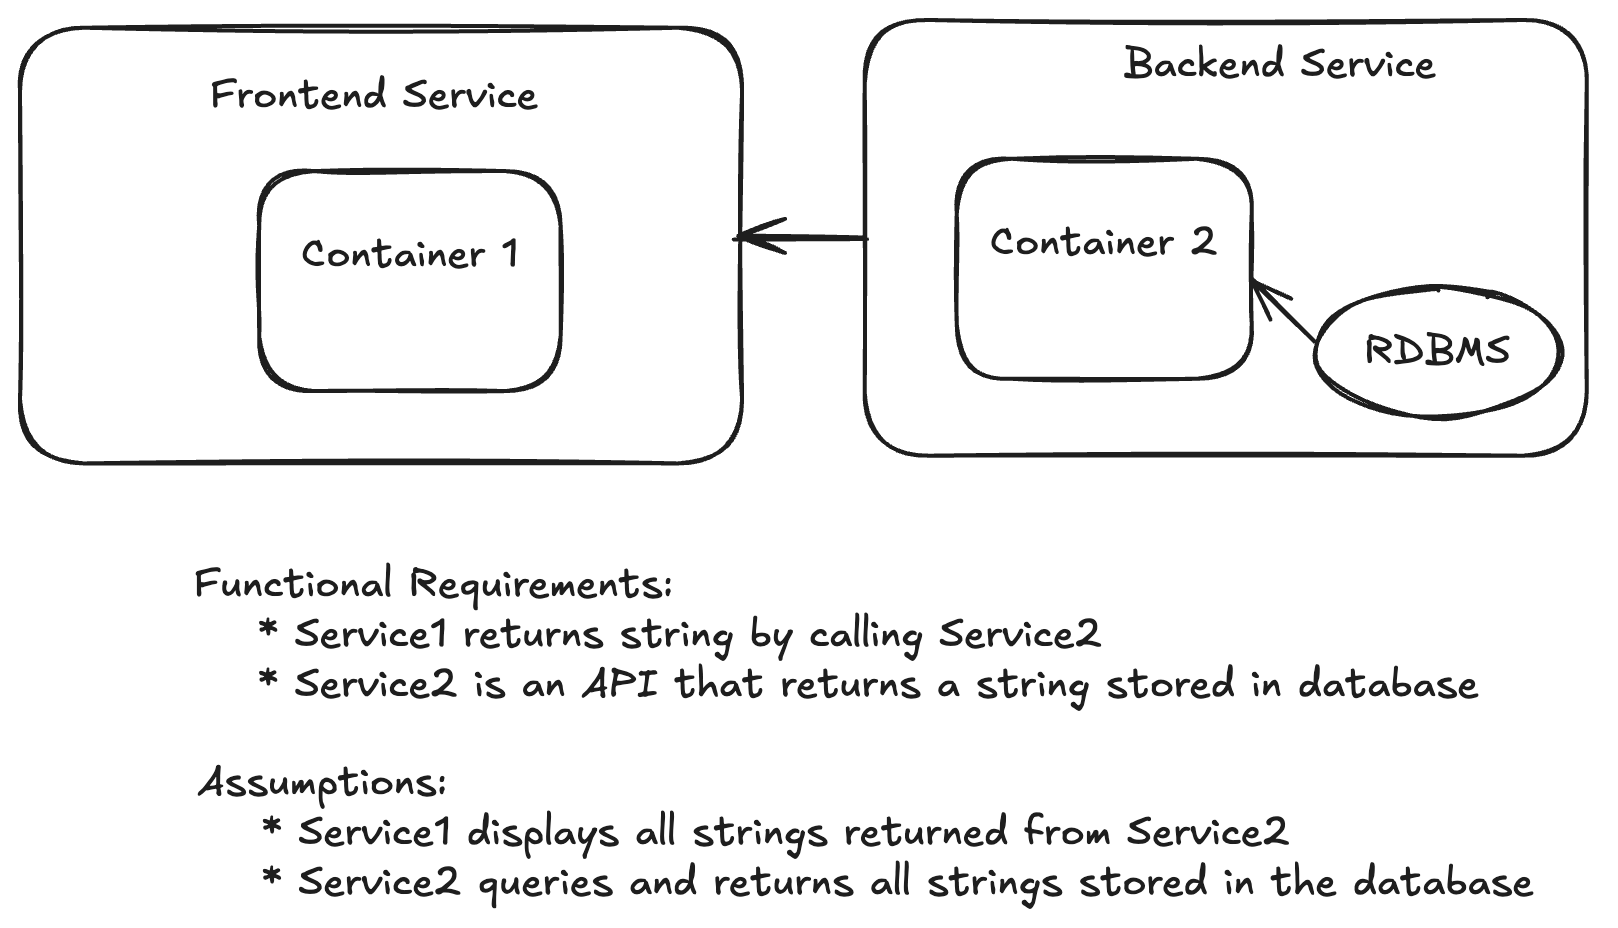
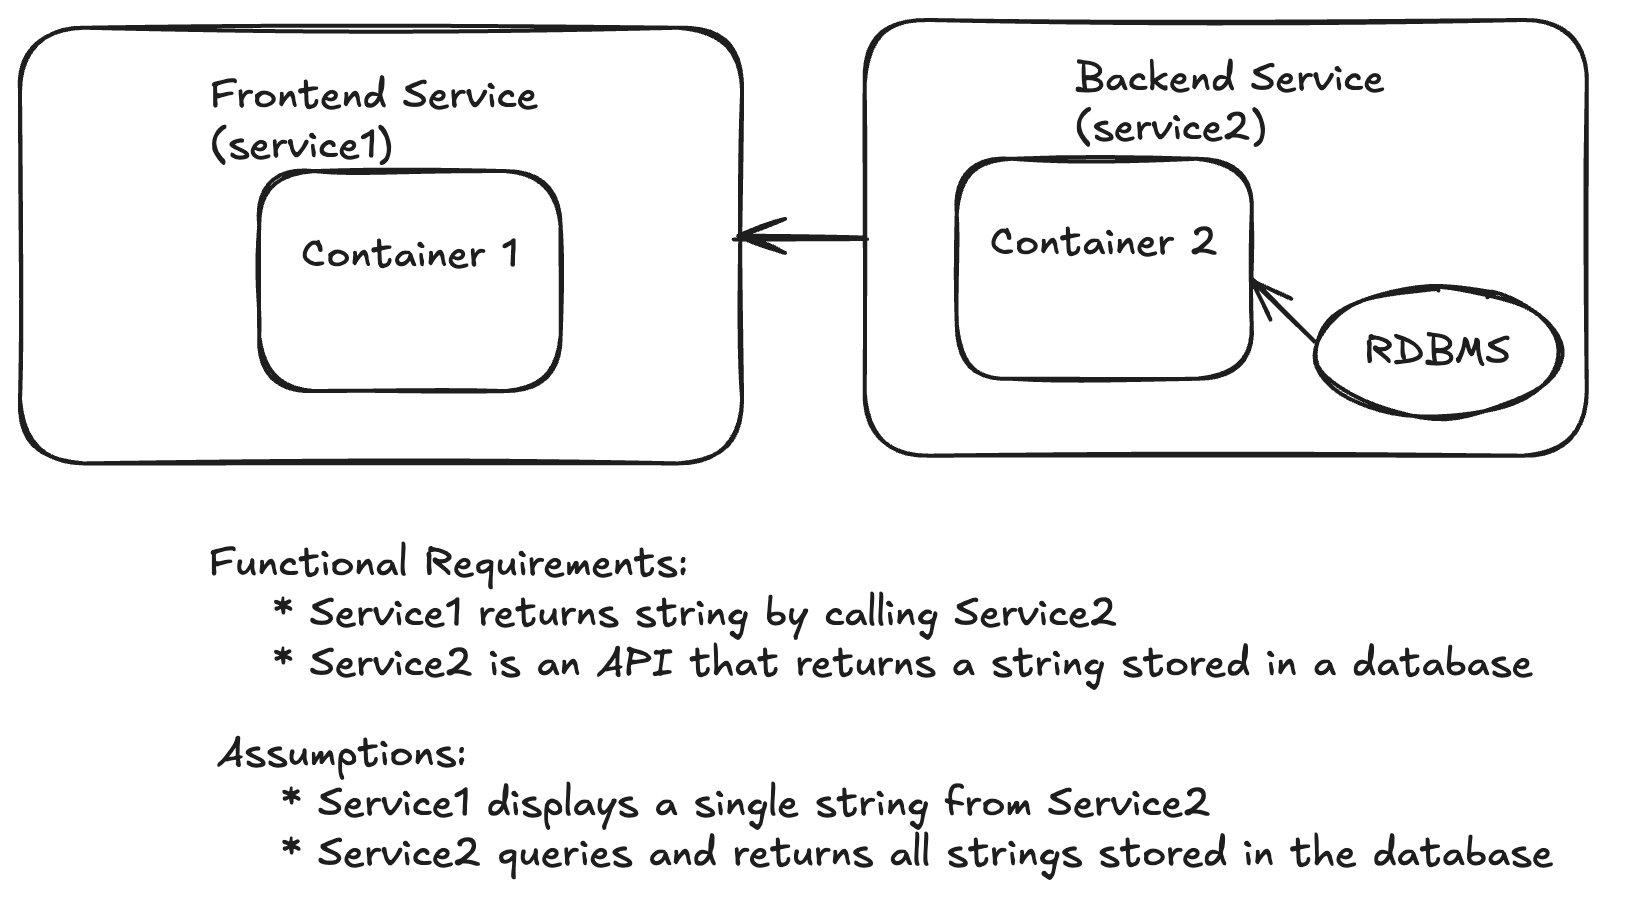
Frontend returns a single string

diff --git a/frontend/server.js b/frontend/server.js
@@ -11,7 +11,8 @@ app.get('/', async (req, res) => {
 app.get('/api/display', async (req, res) => {
   try {
     const response = await axios.get(BACKEND_URL);
-    res.json(response.data);
+    // A cheat since we know there is only one value returned.
+    res.send(response.data[0]["string_value"]);
   } catch (error) {
     res.status(500).send('Error fetching string.');
   }
